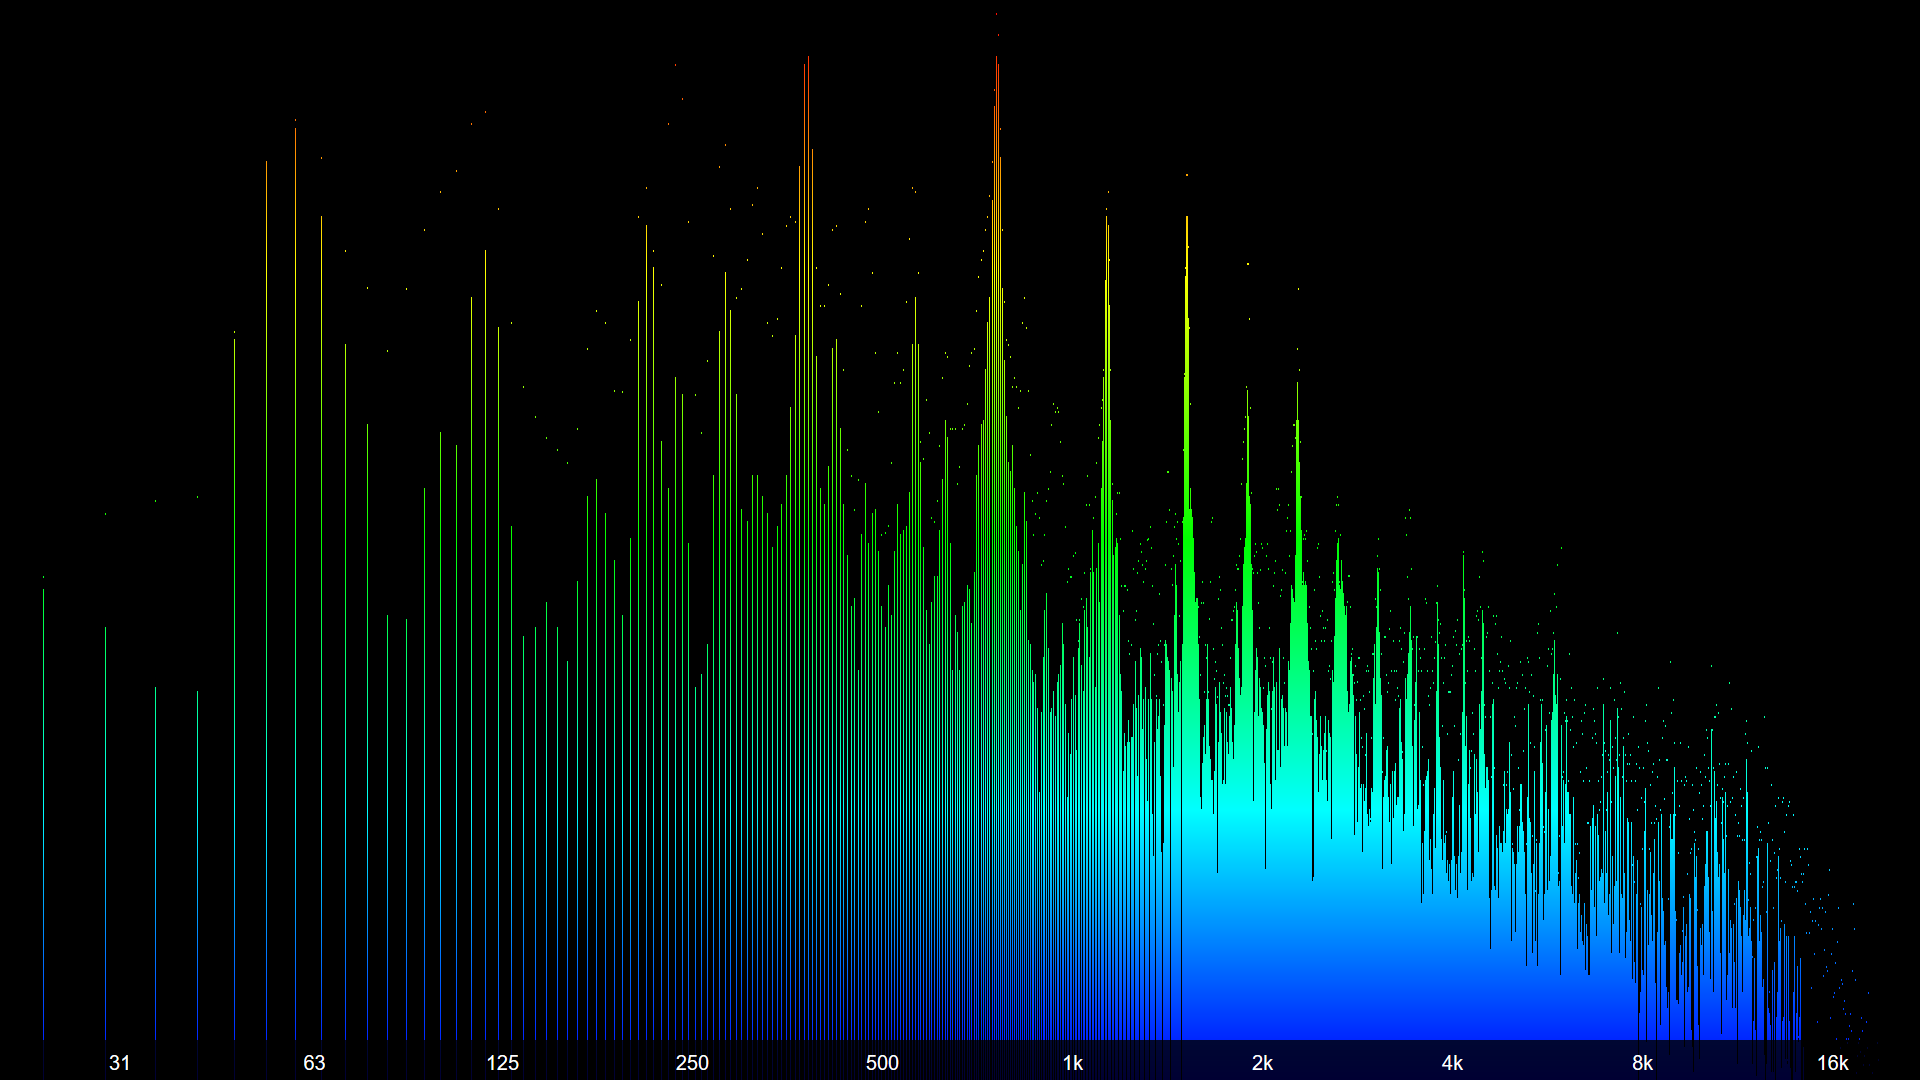
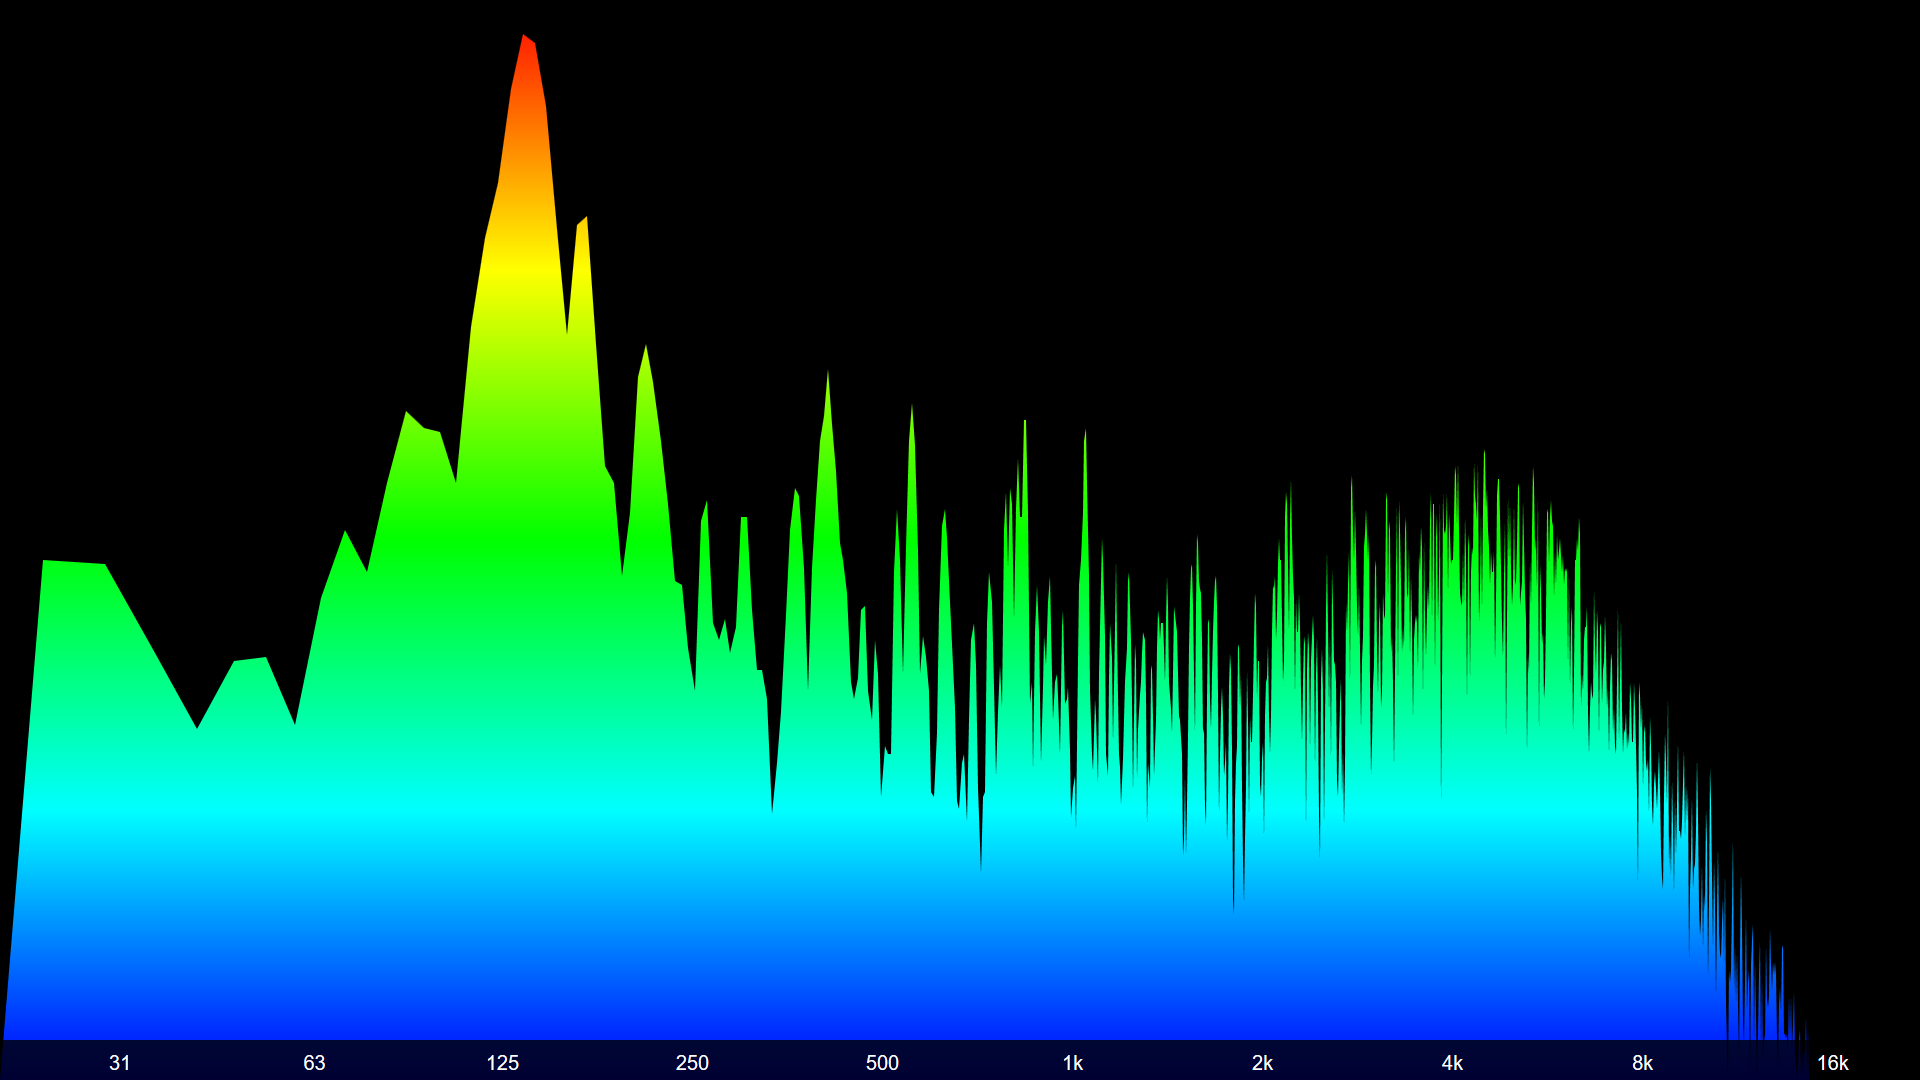
Update screenshots.

diff --git a/README.md b/README.md
@@ -67,8 +67,11 @@ Discrete frequencies mode. User interface showing the file explorer and play que
 Full screen view: 1/6th-octave bands mode, 30Hz-16KHz, "Outrun" gradient, with complete on-screen information.
 ![screenshot3](docs/img/screenshot3.png "Full screen view: 1/6th-octave bands mode, 30Hz-16KHz, 'Outrun' gradient, with complete on-screen information")
 
-Full screen view: Discrete frequencies mode, 20Hz-22KHz, frequency scale on, "Prism" gradient.
-![screenshot4](docs/img/screenshot4.png "Full screen view: Discrete frequencies mode, 20Hz-22KHz, frequency scale on,'Prism' gradient")
+Full screen view: Area fill mode, 20Hz-22KHz, frequency scale on, "Prism" gradient.
+![screenshot4](docs/img/screenshot4.png "Full screen view: Area fill mode, 20Hz-22KHz, frequency scale on, 'Prism' gradient")
+
+Full screen view: 1/8th-octave bands mode with luminance effect, 30Hz-16KHz, frequency scale on, "Tie Dye" gradient.
+![screenshot5](docs/img/screenshot5.png "Full screen view: 1/8th-octave bands mode with luminance effect, 30Hz-16KHz, frequency scale on, 'Tie Dye' gradient")
 
 
 ## Credits and acknowledgments
